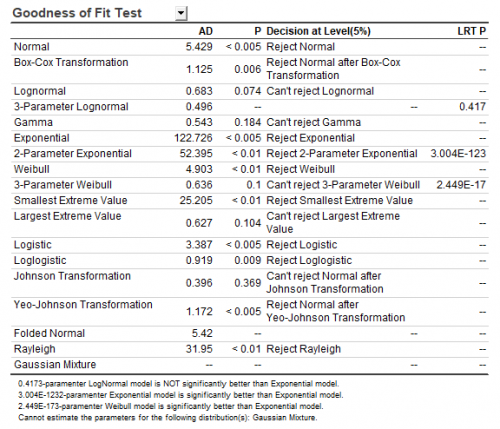
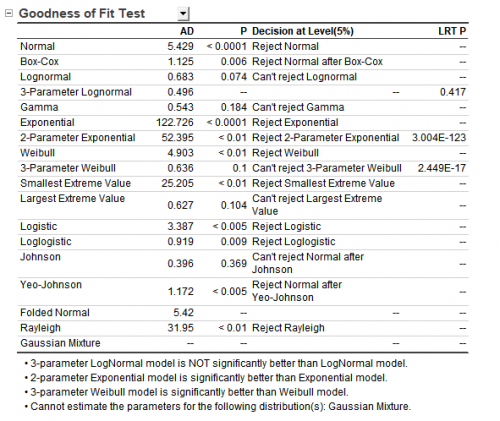
Auto-sync from Online folder: 2026-08-11 01:18:10

diff --git a/en/App/App/Tutorial_Control_Charts.html b/en/App/App/Tutorial_Control_Charts.html
@@ -63,23 +63,30 @@
 <li> Click the <b>Statistical Process Control</b> icon <a  class="image"><img alt="SPC Icon.png" src="../images/Tutorial_Control_Charts/SPC_Icon.png?v=73813" width="32"  /></a> in the <b>Apps Gallery</b> window.</li>
 <li> Select the <b>Control Charts</b> tab, select <b>Variables Charts for Subgroups</b> from the dropdown list, select <b>Xbar-R</b>
 <dl><dd><a  class="image"><img alt="XbarR GUI.png" src="../images/Tutorial_Control_Charts/700px-XbarR_GUI.png?v=73908" width="700"   /></a></dd></dl></li>
-<li> In the <b>Input</b> tab of the opened dialog, select column B and C to be <b>Measurement Data</b>. Set the <b>Subgroup Size Column</b> to be Column A
+<li> In the <b>Input</b> tab of the opened dialog, select column B and C to be <b>Measurement Data</b>. Set the <b>Subgroup Size</b> to be Column A
 <dl><dd><a  class="image"><img alt="XbarR Input.png" src="../images/Tutorial_Control_Charts/450px-XbarR_Input.png?v=80326" width="450"   /></a></dd></dl></li>
 <li> In the <b>Parameters</b> tab, set <b>Historical Mean</b> to be <b>21</b>
 <dl><dd> <a  class="image"><img alt="XbarR Parameters.png" src="../images/Tutorial_Control_Charts/400px-XbarR_Parameters.png?v=73914" width="400"   /></a></dd></dl></li>
-<li> In the <b>Limits</b> tab, expand the <b>Bounds on Control Limits for Xbar Chart</b> branch. Set <b>Lower Spec</b> to be <b>20.95</b>, <b>Upper Spec</b> to be <b>21.05</b>
-<dl><dd> <a  class="image"><img alt="XbarR Limits.png" src="../images/Tutorial_Control_Charts/450px-XbarR_Limits.png?v=73912" width="450"   /></a></dd></dl></li>
 <li> In the <b>Tests</b> tab, select following Tests
-<ul><li> <b>1 Point More Than K Standard Deviation From Center Line</b></li>
-<li> <b>K Points in a Row on Same Side of Center Line</b></li>
-<li> <b>K points in a Row within 1 Standard Deviation of Center Line (Either Side)</b> </li></ul>
-<dl><dd><a  class="image"><img alt="XbarR Tests.png" src="../images/Tutorial_Control_Charts/500px-XbarR_Tests.png?v=73916" width="500"   /></a></dd></dl></li>
+<ul><li> <b>1 Point More Than K Standard Deviation From Center Line, K=3</b></li>
+<li> <b>K Out of K+1 Points More Than 1 Standard Deviation From Center Line (Sample Side), K=4</b>  </li></ul>
+<dl><dd><a  class="image"><img alt="XbarR Tests.png" src="../images/Tutorial_Control_Charts/500px-XbarR_Tests.png?v=80420" width="500"   /></a></dd></dl></li>
 <li> Click <b>OK</b> button. A graph with report tables will be created</li></ol>
 <h5><a name="Interpreting_the_Results"></a><span class="mw-headline">Interpreting the Results</span></h5>
 <p>Examine the R chart first, if the process variations are not in control, the Xbar Chart may be inaccurate. All the points are within the control limits in the R chart of the two machines, the process variation of the two machines are in control. 
-</p><p>Machine has 1 out-of-control points. The Xbar chart of machine 1 indicate that there is a point is beyond the control limits for Machine 1. The test result of TEST 1 also reported that Test 1 is fail at point 18 
-</p><p>Machine 2 is still in control. All the points are within the control limit of Xbar chart of machine 2.
-</p><p><a  class="image"><img alt="XbarR Results.png" src="../images/Tutorial_Control_Charts/900px-XbarR_Results.png?v=80328" width="900"   /></a>
+</p><p>Machine 1 is out of statistical control due to a upward process shift, while Machine 2 is operating stably and in control with lower overall variation.
+</p><p><b>Machine 1 Analysis(Out of Control)</b>
+</p>
+<ul><li> Xbar Chart (Process Average)
+<ul><li> Test 1 Failure (Sample 18): Sample 18 falls beyond the Upper Control Limit (UCL = 21.022). This indicates a major special cause of variation.</li>
+<li> Test 6 Failure (Samples 16–20): Points 16 through 20 fail Test 6 (4 out of 5 consecutive points are more than 1-sigma above the center line on the same side). This confirms a sustained upward shift/drift in the process mean starting around sample 16.</li></ul></li></ul>
+<p><b>Machine 2 Analysis (In Control)</b>
+</p>
+<ul><li> Xbar Chart (Process Average)
+<ul><li> All 20 sample means fall within the control limits (LCL = 20.984, UCL = 21.016) and center around Xbar = 21.000. No special-cause rules were triggered.</li></ul></li>
+<li> R Chart (Process Variation)
+<ul><li> Fully in control with an average range (R = 0.021) lower than Machine 1, indicating higher consistency.</li></ul></li></ul>
+<p><a  class="image"><img alt="XbarR Results.png" src="../images/Tutorial_Control_Charts/900px-XbarR_Results.png?v=80422" width="900"   /></a>
 </p>
 <h2><a name="Variables_Chart_for_Individuals:_I-MR"></a><span class="mw-headline">Variables Chart for Individuals: I-MR</span></h2>
 <h5><a name="Background_2"></a><span class="mw-headline">Background</span></h5>
@@ -89,7 +96,7 @@
 <ol><li> Open folder <b>1. Normal</b>. Activate the workbook <b>Height of Pipe</b>.</li>
 <li> Highlight column A in worksheet. Click the <b>Statistical Process Control</b> icon <a  class="image"><img alt="SPC Icon.png" src="../images/Tutorial_Control_Charts/SPC_Icon.png?v=73813" width="32"  /></a> in the <b>Apps Gallery</b> window.</li>
 <li> Select the <b>Control Charts</b> tab, select <b>Variables Charts for Individuals</b> from the dropdown list, select <b>I-MR</b></li>
-<li> # In the <b>Input</b> tab of the opened dialog, column A is selected automatically as <b>Measurement Data</b>.</li>
+<li> In the <b>Input</b> tab of the opened dialog, column A is selected automatically as <b>Measurement Data</b>.</li>
 <li> In the <b>Tests</b> tab, select following Tests
 <ul><li> <b>1 Point More Than K Standard Deviation From Center Line</b></li>
 <li> <b>K Points in a Row on Same Side of Center Line</b></li></ul>
@@ -108,13 +115,13 @@
 <li> Click the <b>Statistical Process Control</b> icon <a  class="image"><img alt="SPC Icon.png" src="../images/Tutorial_Control_Charts/SPC_Icon.png?v=73813" width="32"  /></a> in the <b>Apps Gallery</b> window.</li>
 <li> Keep in the <b>Control Charts</b> tab, select <b>Attribute Charts</b> from the dropdown list, select <b>P-Chart Diagnostic</b>
 <dl><dd><a  class="image"><img alt="Attribute GUI.png" src="../images/Tutorial_Control_Charts/700px-Attribute_GUI.png?v=73934" width="700"   /></a></dd></dl></li>
-<li> In the <b>Input</b> tab of the opened dialog, set <b>Measurement Data</b> to be column B. Set the <b>Sample Size Column</b> to be Column A
+<li> In the <b>Input</b> tab of the opened dialog, set <b>Measurement Data</b> to be column B. Set the <b>Subgroup Size</b> to be Column A
 <dl><dd><a  class="image"><img alt="P Input.png" src="../images/Tutorial_Control_Charts/380px-P_Input.png?v=80330" width="380"   /></a></dd></dl></li>
 <li> Click <b>OK</b> button. A graph is created
 <dl><dd> <a  class="image"><img alt="PDiagnostic.png" src="../images/Tutorial_Control_Charts/400px-PDiagnostic.png?v=80331" width="400"   /></a></dd>
 <dd> As mentioned in the notes of the <b>P Diagnostic</b> chart. <b>Laney P' chart</b> should be used. Click the <b>Statistical Process Control</b> icon <a  class="image"><img alt="SPC Icon.png" src="../images/Tutorial_Control_Charts/SPC_Icon.png?v=73813" width="32"  /></a> in the <b>Apps Gallery</b> window.</dd></dl></li>
 <li> Keep in the <b>Control Charts</b> tab, select <b>Laney P'</b></li>
-<li> In the <b>Input</b> tab of the opened dialog, set <b>Measurement Data</b> to be column B. Set the <b>Sample Size Column</b> to be Column A
+<li> In the <b>Input</b> tab of the opened dialog, set <b>Measurement Data</b> to be column B. Set the <b>Subgroup Size</b> to be Column A
 <dl><dd><a  class="image"><img alt="LaneyP Input.png" src="../images/Tutorial_Control_Charts/400px-LaneyP_Input.png?v=80332" width="400"   /></a></dd></dl></li>
 <li> In the <b>Tests</b> tab, select <b>Perform All Tests</b> from the <b>Tests</b> drop-down list
 <dl><dd><a  class="image"><img alt="LaneyP Tests.png" src="../images/Tutorial_Control_Charts/500px-LaneyP_Tests.png?v=73940" width="500"   /></a></dd></dl></li></ol>
@@ -134,7 +141,7 @@
 <li> Click the <b>Statistical Process Control</b> icon <a  class="image"><img alt="SPC Icon.png" src="../images/Tutorial_Control_Charts/SPC_Icon.png?v=73813" width="32"  /></a> in the <b>Apps Gallery</b> window.</li>
 <li> Select the <b>Control Charts</b> tab, select <b>Time-Weighted Charts</b> from the dropdown list, select <b>CUSUM</b>
 <dl><dd><a  class="image"><img alt="CUSUM GUI.png" src="../images/Tutorial_Control_Charts/700px-CUSUM_GUI.png?v=73949" width="700"   /></a></dd></dl></li>
-<li> In the <b>Input</b> tab of the opened dialog, select column B and C to be <b>Measurement Data</b>.Set the <b>Subgroup Size Column</b> to be Column A. Set <b>Target</b> to be <b>21</b>
+<li> In the <b>Input</b> tab of the opened dialog, select column B and C to be <b>Measurement Data</b>.Set the <b>Subgroup Size</b> to be Column A. Set <b>Target</b> to be <b>21</b>
 <dl><dd><a  class="image"><img alt="CUSUM Input.png" src="../images/Tutorial_Control_Charts/CUSUM_Input.png?v=80333" width="500"  /></a></dd></dl></li>
 <li> Click <b>OK</b> button. A graph is created</li></ol>
 <h5><a name="Interpreting_the_Results_4"></a><span class="mw-headline">Interpreting the Results</span></h5>
@@ -152,7 +159,7 @@
 <li> Click the <b>Statistical Process Control</b> icon <a  class="image"><img alt="SPC Icon.png" src="../images/Tutorial_Control_Charts/SPC_Icon.png?v=73813" width="32"  /></a> in the <b>Apps Gallery</b> window.</li>
 <li> Select the <b>Control Charts</b> tab, select <b>Multivariate Charts</b> from the dropdown list, select <b>T²-Generalized Variance</b>
 <dl><dd><a  class="image"><img alt="Multivar GUI.png" src="../images/Tutorial_Control_Charts/700px-Multivar_GUI.png?v=77847" width="700"   /></a></dd></dl></li>
-<li> In the <b>Input</b> tab of the opened dialog, select column B,C, D to be <b>Measurement Data</b>. Set the <b>Subgroup Size Column</b> to be Column A.
+<li> In the <b>Input</b> tab of the opened dialog, select column B,C, D to be <b>Measurement Data</b>. Set the <b>Subgroup Size</b> to be Column A.
 <dl><dd><a  class="image"><img alt="T2 Var Input.png" src="../images/Tutorial_Control_Charts/400px-T2_Var_Input.png?v=80336" width="400"   /></a></dd></dl></li>
 <li> Click <b>OK</b> button. A report sheet is generated</li></ol>
 <h5><a name="Interpreting_the_Results_5"></a><span class="mw-headline">Interpreting the Results</span></h5>

diff --git a/en/App/App/Specify_Input_Data_SPC.html b/en/App/App/Specify_Input_Data_SPC.html
@@ -2,23 +2,34 @@
 <div id="toc" class="toc"><div id="toctitle"><h2>Contents</h2></div>
 <ul>
 <li class="toclevel-1 tocsection-1"><a href="#Introduction"><span class="tocnumber">1</span> <span class="toctext">Introduction</span></a></li>
-<li class="toclevel-1 tocsection-2"><a href="#Specify_Input_Data"><span class="tocnumber">2</span> <span class="toctext">Specify Input Data</span></a></li>
-<li class="toclevel-1 tocsection-3"><a href="#Specify_Specifications"><span class="tocnumber">3</span> <span class="toctext">Specify Specifications</span></a>
+<li class="toclevel-1 tocsection-2"><a href="#Specifying_Input_Data"><span class="tocnumber">2</span> <span class="toctext">Specifying Input Data</span></a></li>
+<li class="toclevel-1 tocsection-3"><a href="#Setting_up_Specifications_and_Parameters"><span class="tocnumber">3</span> <span class="toctext">Setting up Specifications and Parameters</span></a>
 <ul>
-<li class="toclevel-2"><a href="#Enter_a_number"><span class="tocnumber">3.1</span> <span class="toctext">Enter a number</span></a></li>
-<li class="toclevel-2"><a href="#Enter_space-separated_values"><span class="tocnumber">3.2</span> <span class="toctext">Enter space-separated values</span></a></li>
-<li class="toclevel-2"><a href="#Enter_values_in_header_rows"><span class="tocnumber">3.3</span> <span class="toctext">Enter values in header rows</span></a></li>
-<li class="toclevel-2"><a href="#Enter_values_in_columns"><span class="tocnumber">3.4</span> <span class="toctext">Enter values in columns</span></a></li>
+<li class="toclevel-2 tocsection-4"><a href="#Single_Variable"><span class="tocnumber">3.1</span> <span class="toctext">Single Variable</span></a>
+<ul>
+<li class="toclevel-3"><a href="#Enter_a_number"><span class="tocnumber">3.1.1</span> <span class="toctext">Enter a number</span></a></li>
+<li class="toclevel-3"><a href="#Enter_values_in_header_rows"><span class="tocnumber">3.1.2</span> <span class="toctext">Enter values in header rows</span></a></li>
+<li class="toclevel-3"><a href="#Enter_name_range_and_project_variables"><span class="tocnumber">3.1.3</span> <span class="toctext">Enter name range and project variables</span></a></li>
+</ul>
+</li>
+<li class="toclevel-2 tocsection-5"><a href="#Multiple_Variables"><span class="tocnumber">3.2</span> <span class="toctext">Multiple Variables</span></a>
+<ul>
+<li class="toclevel-3"><a href="#Enter_a_number_2"><span class="tocnumber">3.2.1</span> <span class="toctext">Enter a number</span></a></li>
+<li class="toclevel-3"><a href="#Enter_values_in_header_rows_2"><span class="tocnumber">3.2.2</span> <span class="toctext">Enter values in header rows</span></a></li>
+<li class="toclevel-3"><a href="#Enter_space-separated_values"><span class="tocnumber">3.2.3</span> <span class="toctext">Enter space-separated values</span></a></li>
+<li class="toclevel-3"><a href="#Enter_values_in_columns"><span class="tocnumber">3.2.4</span> <span class="toctext">Enter values in columns</span></a></li>
+</ul>
+</li>
 </ul>
 </li>
 </ul>
 </div>
 
-<h3><a name="Introduction"></a><span class="mw-headline">Introduction</span></h3>
+<h2><a name="Introduction"></a><span class="mw-headline">Introduction</span></h2>
 <p>This chapter guides you through selecting measurement data, handling subgroup structures, and applying specification limits—such as Lower Specification Limit (LSL), Upper Specification Limit (USL), and Target values—across different data layouts for the SPC tools
 </p><p><br />
 </p>
-<h3><a name="Specify_Input_Data"></a><span class="mw-headline">Specify Input Data</span></h3>
+<h2><a name="Specifying_Input_Data"></a><span class="mw-headline">Specifying Input Data</span></h2>
 <p>Select the options in <b>Input</b> tab of the dialog according to how your data arranged
 </p>
 <table class="dialogcontroltable">
@@ -64,18 +75,35 @@ If the columns have different data size, right click on the row header of last r
 <p><a  class="image"><img alt="Input RawData.png" src="../images/Specify_Input_Data_SPC/Input_RawData.png?v=80300" width="414"  /></a>
 </p>
 </td></tr></table>
-<h3><a name="Specify_Specifications"></a><span class="mw-headline">Specify Specifications</span></h3>
+<h2><a name="Setting_up_Specifications_and_Parameters"></a><span class="mw-headline">Setting up Specifications and Parameters</span></h2>
+<p>Origin provides flexible methods for entering specification limits in the <b>Input</b> tab and the historic parameters in the <b>Parameters</b> tab
+</p><p><a  class="image"><img alt="Specification Parameters.png" src="../images/Specify_Input_Data_SPC/800px-Specification_Parameters.png?v=80398" width="800"   /></a>
+</p>
+<h3><a name="Single_Variable"></a><span class="mw-headline">Single Variable</span></h3>
 <h5><a name="Enter_a_number"></a><span class="mw-headline">Enter a number</span></h5>
 <ul><li> The value applies to all variables or groups
+<dl><dd><a  class="image"><img alt="Spec a number one variable.png" src="../images/Specify_Input_Data_SPC/400px-Spec_a_number_one_variable.png?v=80392" width="400"   /></a></dd></dl></li></ul>
+<h5><a name="Enter_values_in_header_rows"></a><span class="mw-headline">Enter values in header rows</span></h5>
+<ul><li> The values stored in header rows are applied to the corresponding columns.
+<dl><dd> <a  class="image"><img alt="Spec Headers One Varaible.png" src="../images/Specify_Input_Data_SPC/500px-Spec_Headers_One_Varaible.png?v=80393" width="500"   /></a></dd></dl></li></ul>
+<p><br />
+</p>
+<h5><a name="Enter_name_range_and_project_variables"></a><span class="mw-headline">Enter name range and project variables</span></h5>
+<p>If you have defined <a class="external text" href="../../UserGuide/UserGuide/Named_Range.html">named range</a> or <a class="external text" href="../../QuickHelp/QuickHelp/How_to_quickly_define_and_access_Project_Variables_in_Set_Values_dialog.html">project variables</a> for the specification limits or historic parameters, you can enter them directly into the specification fields.
+</p>
+<dl><dd><a  class="image"><img alt="Spec Variables.png" src="../images/Specify_Input_Data_SPC/650px-Spec_Variables.png?v=80381" width="650"   /></a></dd></dl>
+<h3><a name="Multiple_Variables"></a><span class="mw-headline">Multiple Variables</span></h3>
+<p>The multiple variable tools in <a href="../../App/Category/Capability_Analysis(App).html" title="Category:Capability Analysis(App)">capability analysis</a> supports following specication methods
+</p>
+<h5><a name="Enter_a_number_2"></a><span class="mw-headline">Enter a number</span></h5>
+<ul><li> The value applies to all variables or groups
 <dl><dd><a  class="image"><img alt="Spec a number.png" src="../images/Specify_Input_Data_SPC/350px-Spec_a_number.png?v=80296" width="350"   /></a></dd></dl></li></ul>
+<h5><a name="Enter_values_in_header_rows_2"></a><span class="mw-headline">Enter values in header rows</span></h5>
+<ul><li> The values stored in header rows are applied to the corresponding columns.
+<dl><dd> <a  class="image"><img alt="Spec header.png" src="../images/Specify_Input_Data_SPC/650px-Spec_header.png?v=80295" width="650"   /></a></dd></dl></li></ul>
 <h5><a name="Enter_space-separated_values"></a><span class="mw-headline">Enter space-separated values</span></h5>
 <ul><li> The values apply sequentially to each measurement column
 <dl><dd> <a  class="image"><img alt="Spec space separated numbers.png" src="../images/Specify_Input_Data_SPC/350px-Spec_space_separated_numbers.png?v=80292" width="350"   /></a></dd></dl></li></ul>
-<p><br />
-</p>
-<h5><a name="Enter_values_in_header_rows"></a><span class="mw-headline">Enter values in header rows</span></h5>
-<ul><li> The values stored in header rows are applied to the corresponding columns.
-<dl><dd> <a  class="image"><img alt="Spec header.png" src="../images/Specify_Input_Data_SPC/350px-Spec_header.png?v=80295" width="350"   /></a></dd></dl></li></ul>
 <h5><a name="Enter_values_in_columns"></a><span class="mw-headline">Enter values in columns</span></h5>
 <ul><li>The values stored in column are applied sequentially to each measurement column
 <dl><dd><a  class="image"><img alt="Spec columns.png" src="../images/Specify_Input_Data_SPC/650px-Spec_columns.png?v=80291" width="650"   /></a></dd></dl></li></ul>

diff --git a/en/App/App/Tutorial_CA.html b/en/App/App/Tutorial_CA.html
@@ -83,7 +83,7 @@
 <ol><li> Open folder <b>2. Between-Within</b>, activate the workbook <b>Steel Sheet</b></li>
 <li> Click the <b>Statistical Process Control</b> icon <a  class="image"><img alt="SPC Icon.png" src="../images/Tutorial_CA/SPC_Icon.png?v=73813" width="32"  /></a> in the <b>Apps Gallery</b> window.</li>
 <li> Keep in the <b>Capability Analysis</b> tab, select <b>Between/Within Capability Analysis</b></li>
-<li> In the <b>Input</b> tab of the opened dialog, select column A to be <b>Measurement Data</b>. Choose <b>Subgroup Size By</b> to be <b>Column</b> and set the <b>Subgroup Size Column</b> to be Column B. Set <b>Lower Spec</b> to be <b>2.9</b>, <b>Upper Spec</b> to be <b>3.1</b> and <b>Target</b> to be <b>3</b> by typing
+<li> In the <b>Input</b> tab of the opened dialog, select column A to be <b>Measurement Data</b>. Set the <b>Subgroup Size</b> to be Column B. Set <b>Lower Spec</b> to be <b>2.9</b>, <b>Upper Spec</b> to be <b>3.1</b> and <b>Target</b> to be <b>3</b> by typing
 <dl><dd><a  class="image"><img alt="BCA Input.png" src="../images/Tutorial_CA/400px-BCA_Input.png?v=80307" width="400"   /></a></dd></dl></li>
 <li> Click <b>OK</b> button. A report sheet will be created</li></ol>
 <h5><a name="Interpreting_the_Results_2"></a><span class="mw-headline">Interpreting the Results</span></h5>
@@ -118,7 +118,7 @@
 <ol><li> Opened folder <b>4. Binomial</b>, activate the workbook <b>Survey</b>.</li>
 <li> Click the <b>Statistical Process Control</b> icon <a  class="image"><img alt="SPC Icon.png" src="../images/Tutorial_CA/SPC_Icon.png?v=73813" width="32"  /></a> in the <b>Apps Gallery</b> window.</li>
 <li> Keep in the <b>Capability Analysis</b> tab, select <b>Binnomial Capability Analysis</b></li>
-<li> In the <b>Input</b> tab of the opened dialog, set <b>Defectives</b> to be column B. Choose <b>Sample Size By</b> to be <b>Column</b> and set the <b>Sample Size Column</b> to be Column A
+<li> In the <b>Input</b> tab of the opened dialog, set <b>Defectives</b> to be column B. Set the <b>Sample Size</b> to be Column A
 <dl><dd><a  class="image"><img alt="BinCA Input.png" src="../images/Tutorial_CA/300px-BinCA_Input.png?v=80313" width="300"   /></a></dd></dl></li>
 <li> Click <b>OK</b> button. A report sheet will be created</li></ol>
 <h5><a name="Interpreting_the_Results_4"></a><span class="mw-headline">Interpreting the Results</span></h5>
@@ -135,7 +135,7 @@ cm2 and the number of blemishes are recorded. We have recorded the data for the 
 <ol><li> Select the folder <b>5. Poisson</b> in <b>Project Explorer</b>, activate the workbook <b>Plastic Film</b></li>
 <li> Click the <b>Statistical Process Control</b> icon <a  class="image"><img alt="SPC Icon.png" src="../images/Tutorial_CA/SPC_Icon.png?v=73813" width="32"  /></a> in the <b>Apps Gallery</b> window.</li>
 <li> Keep in the <b>Capability Analysis</b> tab, select <b>Poisson Capability Analysis</b></li>
-<li> In the <b>Input</b> tab of the opened dialog, set <b>Defectives</b> to be column B. Choose <b>Sample Size By</b> to be <b>Column</b> and set the <b>Sample Size Column</b> to be Column A
+<li> In the <b>Input</b> tab of the opened dialog, set <b>Defectives</b> to be column B. Set the <b>Sample Size</b> to be Column A
 <dl><dd><a  class="image"><img alt="PoiCA Input.png" src="../images/Tutorial_CA/300px-PoiCA_Input.png?v=80314" width="300"   /></a></dd></dl></li>
 <li> Click <b>OK</b> button. A report sheet will be created</li></ol>
 <h5><a name="Interpreting_the_Results_5"></a><span class="mw-headline">Interpreting the Results</span></h5>
@@ -154,7 +154,7 @@ cm2 and the number of blemishes are recorded. We have recorded the data for the 
 <li> Highlight column B and C in worksheet. Click the <b>Statistical Process Control</b> icon <a  class="image"><img alt="SPC Icon.png" src="../images/Tutorial_CA/SPC_Icon.png?v=73813" width="32"  /></a> in the <b>Apps Gallery</b> window.</li>
 <li> Select the <b>Capability Analysis</b> tab, select <b>Multiple Variables</b> check box and select <b>Normal Capability Analysis</b>
 <dl><dd><a  class="image"><img alt="Mulvar NPA GUI.png" src="../images/Tutorial_CA/700px-Mulvar_NPA_GUI.png?v=77884" width="700"   /></a></dd></dl></li>
-<li> In the <b>Input</b> tab of the opened dialog, column B and C is selected automatically as <b>Measurement Data</b>. Choose <b>Subgroup Size By</b> to be <b>Column</b> and set the <b>Subgroup Size</b> to be column A. </li>
+<li> In the <b>Input</b> tab of the opened dialog, column B and C is selected automatically as <b>Measurement Data</b>. Set the <b>Subgroup Size</b> to be column A. </li>
 <li> Expand the <b>Specifications</b> branch, enter <b>20.99 20.95</b> in <b>Lower Spec</b>  box, enter <b>21.02 21.05</b> in <b>Upper Spec</b>  box. Enter <b>21</b> in the <b>Target</b> box
 <dl><dd><a  class="image"><img alt="Mulvar NPA Input.png" src="../images/Tutorial_CA/380px-Mulvar_NPA_Input.png?v=77885" width="380"   /></a></dd></dl></li>
 <li> Click <b>OK</b> button. A report sheet will be created</li></ol>

diff --git a/en/App/App/Tutorial_PO.html b/en/App/App/Tutorial_PO.html
@@ -65,7 +65,7 @@
 <ol><li> Open folder <b>2. Between-Within</b>, activate the workbook <b>Steel Sheet</b></li>
 <li> Click the <b>Statistical Process Control</b> icon <a  class="image"><img alt="SPC Icon.png" src="../images/Tutorial_PO/SPC_Icon.png?v=73813" width="32"  /></a> in the <b>Apps Gallery</b> window.</li>
 <li> Keep in the <b>Process Overview</b> tab, select <b>Between/Within Process Overview</b></li>
-<li> In the <b>Input</b> tab of the opened dialog, select column A to be <b>Measurement Data</b>. Choose <b>Subgroup Size By</b> to be <b>Column</b> and set the <b>Subgroup Size Column</b> to be Column B. In the <b>Specifications</b> tab, set <b>Lower Spec</b> to be <b>2.9</b>, <b>Upper Spec</b> to be <b>3.1</b> and <b>Target</b> to be <b>3</b>
+<li> In the <b>Input</b> tab of the opened dialog, select column A to be <b>Measurement Data</b>. Set the <b>Subgroup Size</b> to be Column B. In the <b>Specifications</b> tab, set <b>Lower Spec</b> to be <b>2.9</b>, <b>Upper Spec</b> to be <b>3.1</b> and <b>Target</b> to be <b>3</b>
 <dl><dd><a  class="image"><img alt="BCA Input.png" src="../images/Tutorial_PO/BCA_Input.png?v=80307" width="461"  /></a></dd></dl></li></ol>
 <ol><li> Click <b>OK</b> button. A graph with report tables will be created</li></ol>
 <h5><a name="Interpreting_the_Results_2"></a><span class="mw-headline">Interpreting the Results</span></h5>
@@ -84,7 +84,7 @@
 <ol><li> Opened folder <b>3. Nonnormal</b>. Activate the workbook <b>Weibull</b></li>
 <li> Click the <b>Statistical Process Control</b> icon <a  class="image"><img alt="SPC Icon.png" src="../images/Tutorial_PO/SPC_Icon.png?v=73813" width="32"  /></a> in the <b>Apps Gallery</b> window.</li>
 <li> Keep in the <b>Process Overview</b> tab, select <b>Non-normal Process Overview</b></li>
-<li> In the <b>Input</b> tab of the opened dialog, column A will be selected automatically as <b>Measurement Data</b>. Enter <b>1</b> in the <b>Subgroup Size Constant</b>box. In the <b>Specifications</b> tab, set <b>Upper Spec</b> to be <b>1</b>, keep all other text box to be empty.
+<li> In the <b>Input</b> tab of the opened dialog, column A will be selected automatically as <b>Measurement Data</b>. Enter <b>1</b> in the <b>Subgroup Size</b>box. In the <b>Specifications</b> tab, set <b>Upper Spec</b> to be <b>1</b>, keep all other text box to be empty.
 <dl><dd> <a  class="image"><img alt="PO nonnormal input.png" src="../images/Tutorial_PO/PO_nonnormal_input.png?v=80322" width="461"  /></a></dd></dl></li>
 <li> In the <b>Distribution</b> tab, set <b>Distribution</b> to be <b>Auto</b>. It means it will automatically find and report the best distribution according the AD values
 <dl><dd><a  class="image"><img alt="PO nonnormal distribution.png" src="../images/Tutorial_PO/PO_nonnormal_distribution.png?v=73662" width="519"  /></a></dd></dl></li>

diff --git a/en/App/App/Tutorial_IDD.html b/en/App/App/Tutorial_IDD.html
@@ -33,8 +33,8 @@
 <dl><dd> <a  class="image"><img alt="IDD Tutorial Input.png" src="../images/Tutorial_IDD/IDD_Tutorial_Input.png?v=80302" width="414"  /></a></dd></dl></li>
 <li> In the  <b>Input</b> tab, keep <b>Number of Distributions and Transformations</b> to be <b>All</b>. 
 <dl><dd> <a  class="image"><img alt="IDD Tutorial Distribution.png" src="../images/Tutorial_IDD/400px-IDD_Tutorial_Distribution.png?v=73506" width="400"   /></a></dd></dl></li>
-<li> In the <b>Display</b> tab, check the <b>Create Probability Plot</b>
-<dl><dd><a  class="image"><img alt="IDD Tutorial Display tab.png" src="../images/Tutorial_IDD/400px-IDD_Tutorial_Display_tab.png?v=78863" width="400"   /></a></dd></dl></li>
+<li> In the <b>Display</b> tab, make sure the <b>Probability Plot</b> is checked
+<dl><dd><a  class="image"><img alt="IDD Tutorial Display tab.png" src="../images/Tutorial_IDD/400px-IDD_Tutorial_Display_tab.png?v=80410" width="400"   /></a></dd></dl></li>
 <li> Click <b>OK</b> button. The report sheet will be created</li></ol>
 <h2><a name="Interpreting_the_Results"></a><span class="mw-headline">Interpreting the Results</span></h2>
 <p>We can compare and select a fitting model based on the following results
@@ -48,8 +48,8 @@
 <h5><a name="Probability_.28P-P.29_Plot"></a><span class="mw-headline">Probability (P-P) Plot</span></h5>
 <p>The closer all the scatter points are to the reference line, the better the distribution is for the dataset.
 </p>
-<dl><dd><a  class="image"><img alt="IDD PPPlot.png" src="../images/Tutorial_IDD/IDD_PPPlot.png?v=73637" width="800"  /></a></dd></dl>
+<dl><dd><a  class="image"><img alt="IDD PPPlot.png" src="../images/Tutorial_IDD/IDD_PPPlot.png?v=80412" width="800"  /></a></dd></dl>
 <h5><a name="Goodness_of_Fit_Test_table"></a><span class="mw-headline">Goodness of Fit Test table</span></h5>
-<p><a  class="image"><img alt="IDD FitGoodness.png" src="../images/Tutorial_IDD/500px-IDD_FitGoodness.png?v=77900" width="500"   /></a>
+<p><a  class="image"><img alt="IDD FitGoodness.png" src="../images/Tutorial_IDD/500px-IDD_FitGoodness.png?v=80413" width="500"   /></a>
 </p>
 

diff --git a/en/App/Category/Identify_Data_Distribution(App).html b/en/App/Category/Identify_Data_Distribution(App).html
@@ -24,14 +24,15 @@
 <p><i><b>More information:</b></i>
 </p>
 <ul><li> <a href="../../App/App/Tutorial_IDD.html" title="App:Tutorial IDD">Tutorial: Identify Data Distribution</a></li>
-<li> <a href="../../App/App/Algorithm_IDD.html" title="App:Algorithm IDD">Algorithm: Identify Data Distribution</a></li></ul>
+<li> <a href="../../App/App/Algorithm_IDD.html" title="App:Algorithm IDD">Algorithm: Identify Data Distribution</a></li>
+<li> <a href="../../App/App/Specify_Input_Data_SPC.html" title="App:Specify Input Data SPC">Specifying Input for SPC Tools</a></li></ul>
 <h2><a name="Introduction"></a><span class="mw-headline">Introduction</span></h2>
 <p>With the <b>Identify Data Distribution</b> tool, we can 
 </p>
 <dl><dd><ul><li> Examine the distribution of your data, and estimate parameters for the distribution</li>
 <li> Compare the distributions to determine which is the best fit</li>
 <li> Perform transformation for your data to make your data closely resemble a normal distribution.</li></ul></dd></dl>
-<p>Origin provides 14 distributions and 3 transformation functions in this tool 
+<p>Origin provides 15 distributions and 3 transformation functions in this tool 
 </p>
 <h4><a name="Distributions"></a><span class="mw-headline">Distributions</span></h4>
 <h5><a name="Symmetric"></a><span class="mw-headline">Symmetric</span></h5>
@@ -82,6 +83,8 @@
 <th>Largest Extreme Value
 </th>
 <th>Exponential
+<p>2-Parameter Exponential
+</p>
 </th>
 <th>Gaussian Mixture
 </th>

diff --git a/en/App/Category/Control_Charts(App).html b/en/App/Category/Control_Charts(App).html
@@ -73,6 +73,7 @@ Control charts creates a graph used to determine if a process is being controlle
 <ul><li> S</li></ul>
 </td>
 <td>
+<ul><li>Zone</li></ul>
 </td></tr></table>
 <p>Please look at the tables below for when and how they should be used:
 </p>
@@ -143,6 +144,11 @@ Control charts creates a graph used to determine if a process is being controlle
 <td><b>S</b>
 </td>
 <td>Plots the process standard deviation over time for variables data in subgroups
+</td></tr>
+<tr>
+<td><b>Zone</b>
+</td>
+<td>Displays data values over time with predefined zones or limits, helping identify periods when the process is within, approaching, or outside specified ranges.
 </td></tr></table>
 <h3><a name="Variables_Chart_for_Individuals"></a><span class="mw-headline">Variables Chart for Individuals</span></h3>
 <p>The control charts in this list are to monitor the process performance of continuous data but not in subgroups. Four (4) types of control charts are provided:
@@ -426,7 +432,7 @@ Control charts creates a graph used to determine if a process is being controlle
 <tr>
 <td><b>Generalized Variance</b>
 </td>
-<td>Monitors only the process variability (covariance matrix Î£) using the determinant of the sample covariance matrix
+<td>Monitors only the process variability (covariance matrix) using the determinant of the sample covariance matrix
 </td></tr></table>
 
 

diff --git a/en/App/Category/Process_Overview(App).html b/en/App/Category/Process_Overview(App).html
@@ -42,7 +42,7 @@
 </th>
 <td>Assess capability of your process quantitatively.
 </td></tr></table>
-<p><a  class="image"><img alt="PO Resport.png" src="../images/Process_Overview(App)/PO_Resport.png?v=73437" width="802"  /></a>
+<p><a  class="image"><img alt="PO BW Results.png" src="../images/Process_Overview(App)/PO_BW_Results.png?v=77902" width="746"  /></a>
 </p>
 <h2><a name="Processing"></a><span class="mw-headline">Processing</span></h2>
 <p>Select a process overview tool based on your data
